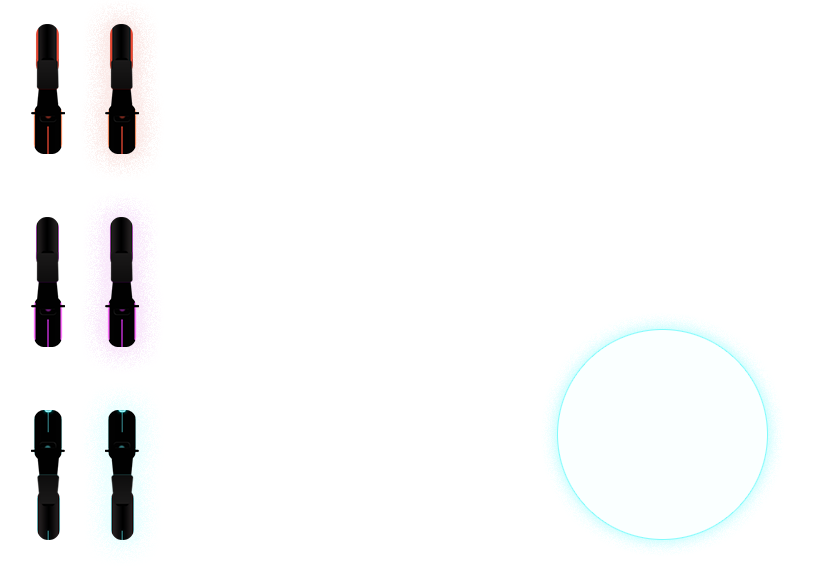
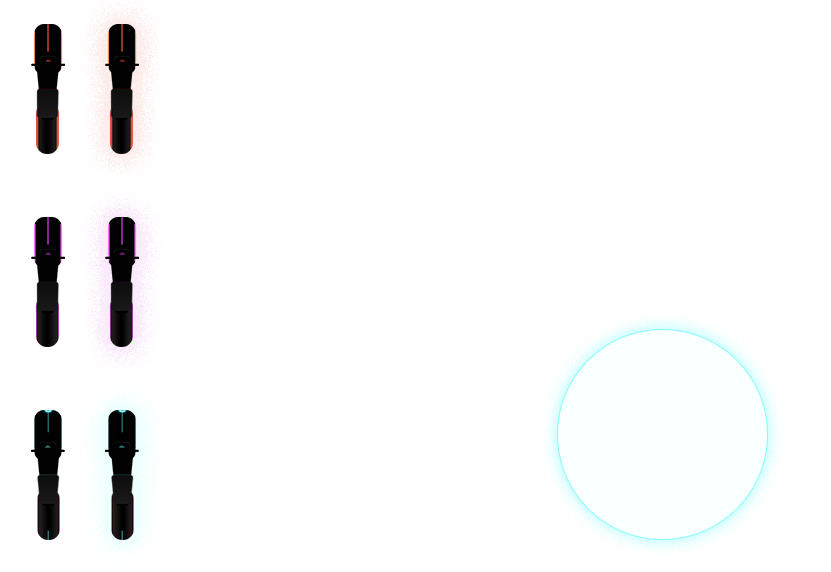
some player prep

diff --git a/src/js/characters/utils/Sprite.js b/src/js/characters/utils/Sprite.js
@@ -1,0 +1,85 @@
+function Sprite( data ){
+  this.ctx        = data.ctx;
+  this.img        = data.img;
+  this.width      = data.width;
+  this.height     = data.height;
+  this.positions  = data.positions;
+  this.glow       = data.glow;
+  this.opacity    = data.opacity || 1;
+  this.raw_color  = data.color;
+  this.color      = function( o ) {
+    let opacity = o;
+    return "rgba("+this.raw_color[0]+", "+this.raw_color[1]+", "+this.raw_color[2]+", "+opacity+")";
+  };
+
+  this.multiplier = 0;
+  this.start = 0;
+
+  this.phase = function(){
+    this.multiplier = 20 * Math.sin( this.start * 2);
+    this.start += (Math.random() * 1);
+    return this.multiplier * Math.sin( this.start ) + 15;
+  }
+}
+Sprite.prototype = {
+  draw: function(position, x, y){
+
+      // Position is is an index in an array for the sprite
+      let pos = this.positions[position];
+
+      // Draw a hot trail
+      this.ctx.save();
+      this.ctx.beginPath();
+      this.ctx.rect(
+        x + 35, // X
+        y + (this.height - 30), // Y
+        this.width - 65, // Width
+        250 // Height
+      );
+
+      // Glow
+      this.ctx.shadowOffsetX  = 0;
+      this.ctx.shadowOffsetY  = 0;
+      this.ctx.shadowBlur     = this.glow;
+      this.ctx.shadowColor    = this.color(1);
+      this.ctx.stroke();
+
+      //Gradient
+      let gradient = this.ctx.createLinearGradient(
+        y + (this.height - 30), // X1
+        y + (this.height - 30), // Y1
+        y + (this.height - 30), // X2
+        y + ((this.height -30) + (230 + this.phase())) // Y2
+      )
+
+      gradient.addColorStop(0, this.color(1));
+      gradient.addColorStop(1, 'rgba(25,28,32,0)');
+
+      // Fill
+      this.ctx.fillStyle = gradient;
+      this.ctx.fill();
+      this.ctx.restore();
+
+      this.ctx.beginPath();
+      // Draw the sprite
+      this.ctx.drawImage(
+        this.img,
+        pos[0],
+        pos[1],
+        this.width,
+        this.height,
+        x, 
+        y,
+        this.width,
+        this.height
+      );
+
+    },
+
+    // Animate somewhere
+    move_to: function(x, y) {
+
+    }
+};
+
+module.exports = Sprite;

diff --git a/src/js/views/GameView.js b/src/js/views/GameView.js
@@ -9,7 +9,9 @@ const BaseView = require('./BaseView');
 const SoundManager  = require('../components/SoundManager');
 
 // Characters
-const Player = require('../characters/Player');
+const Player = require('../characters/Player'),
+      Clu = require('../characters/Clu'),
+      Gem = require('../characters/Gem');
 
 class GameView extends BaseView {
 
@@ -29,6 +31,8 @@ class GameView extends BaseView {
 
     this.characters = [];
     this.player = new Player( options );
+    this.clu = new Clu( options );
+    this.gem = new Gem( options );
 
     this.background = {
       x: -111,
@@ -59,6 +63,8 @@ class GameView extends BaseView {
 
   init() {
     this.characters.push(this.player);
+    this.characters.push(this.clu);
+    this.characters.push(this.gem);
   }
 
   /*
@@ -68,24 +74,24 @@ class GameView extends BaseView {
   | Update.
   ------------------------------------------ */
 	update() {
-    // let self = this;
+    let self = this;
 
-    // _.each(this.characters, function(i){
-    //   i.update();
-    // });
+    _.each(this.characters, function(i){
+      i.update();
+    });
 
     // this.$el.css({
     //   'background-position': self.background.x+"px" + " " + self.background.y+"px"
     // });
 
-    // this.background.y += 8;
+    // this.background.y += 15;
 
     // if(this.right){
-    //   this.background.x -= 8;
+    //   this.background.x -= 15;
     // }
 
     // if(this.left){
-    //   this.background.x += 8;
+    //   this.background.x += 15;
     // }
 
 	}

diff --git a/src/js/characters/Gem.js b/src/js/characters/Gem.js
@@ -6,7 +6,7 @@ Copyright (c) 2015 Drew Dahlman
 const BaseCharacter = require('./BaseCharacter'),
 			Sprite 				= require('./utils/Sprite');
 
-class Player extends BaseCharacter {
+class Gem extends BaseCharacter {
 
 	/*
 	------------------------------------------
@@ -21,8 +21,8 @@ class Player extends BaseCharacter {
 		this.data = {
 			height: 187,
 			width: 78,
-			x: ( self.canvas.width / 2 ) - ( 77 / 2 ),
-			y: ( self.canvas.height / 2 ) - ( 187 / 2 )
+			x: (( self.canvas.width / 2 ) - ( 77 / 2 ) + 150),
+			y: ( self.canvas.height / 2 ) - ( 187 / 2 ) + 80
 		}
 
 		this.sprite = new Sprite({
@@ -31,10 +31,10 @@ class Player extends BaseCharacter {
 			width: this.data.width, 
 			height: this.data.height,
 			positions: [
-				[7,378], // off
-				[81.2,378] // on
+				[7,185], // off
+				[80,185] // on
 			],
-			color: [ 129, 251, 252 ], // RGB
+			color: [ 200, 47, 218 ], // RGB
 			glow: 15
 		})
 
@@ -50,4 +50,4 @@ class Player extends BaseCharacter {
 	}
 }
 
-module.exports = Player;
+module.exports = Gem;

diff --git a/src/js/characters/Clu.js b/src/js/characters/Clu.js
@@ -6,7 +6,7 @@ Copyright (c) 2015 Drew Dahlman
 const BaseCharacter = require('./BaseCharacter'),
 			Sprite 				= require('./utils/Sprite');
 
-class Player extends BaseCharacter {
+class Clu extends BaseCharacter {
 
 	/*
 	------------------------------------------
@@ -21,8 +21,8 @@ class Player extends BaseCharacter {
 		this.data = {
 			height: 187,
 			width: 78,
-			x: ( self.canvas.width / 2 ) - ( 77 / 2 ),
-			y: ( self.canvas.height / 2 ) - ( 187 / 2 )
+			x: (( self.canvas.width / 2 ) - ( 77 / 2 ) - 150),
+			y: ( self.canvas.height / 2 ) - ( 187 / 2 ) + 80
 		}
 
 		this.sprite = new Sprite({
@@ -31,10 +31,10 @@ class Player extends BaseCharacter {
 			width: this.data.width, 
 			height: this.data.height,
 			positions: [
-				[7,378], // off
-				[81.2,378] // on
+				[7,-10], // off
+				[80,-10] // on
 			],
-			color: [ 129, 251, 252 ], // RGB
+			color: [ 218, 67, 47 ], // RGB
 			glow: 15
 		})
 
@@ -50,4 +50,4 @@ class Player extends BaseCharacter {
 	}
 }
 
-module.exports = Player;
+module.exports = Clu;

diff --git a/src/js/characters/loaders/Loader.js b/src/js/characters/loaders/Loader.js
@@ -51,9 +51,9 @@ Loader.prototype = {
 		this.ctx.shadowOffsetX 	= 0;
 		this.ctx.shadowOffsetY 	= 0;
 		this.ctx.shadowBlur 		= this.glow;
+		this.ctx.shadowColor 		= this.stroke_color();
 
 		// Stoke
-		this.ctx.shadowColor 		= this.stroke_color();
 		this.ctx.strokeStyle 		= this.stroke_color();
 		this.ctx.lineWidth 			= this.stroke;
 		this.ctx.lineCap 				= "round";

diff --git a/src/js/data/data.js b/src/js/data/data.js
@@ -45,8 +45,24 @@ const data = {
 			},
 			test2: {
 				src: './images/test/test2.jpg'
+			},
+			scanline_1_3: {
+				src: './images/ui/scanline-1x3-trans.png'
 			}
 		}]
+	},
+	characters: {
+		player: {
+			name: "",
+			height: 187,
+			width: 77,
+			x: 0,
+			y: 0,
+			positions: [
+				[8,378], // Off
+				[84, 378] // On
+			]
+		}
 	}
 }
 

diff --git a/src/js/app.js b/src/js/app.js
@@ -92,6 +92,8 @@ class Application extends Eventful {
 
     // Listen for the load to complete
     this.view.on('load_complete', () => this.start_game() );
+    // this.view.on('load_complete', () => this.play() );
+
 
     // Start the engine
     this.render();
